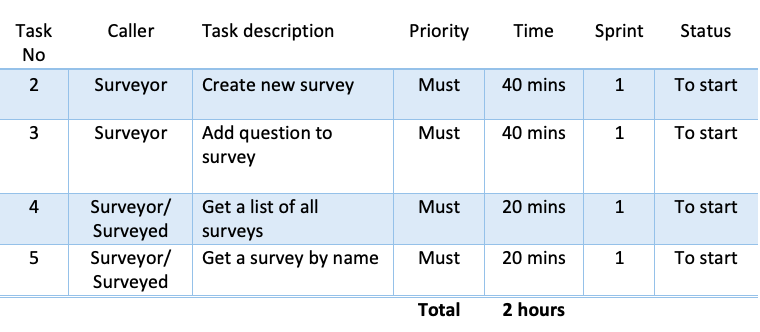
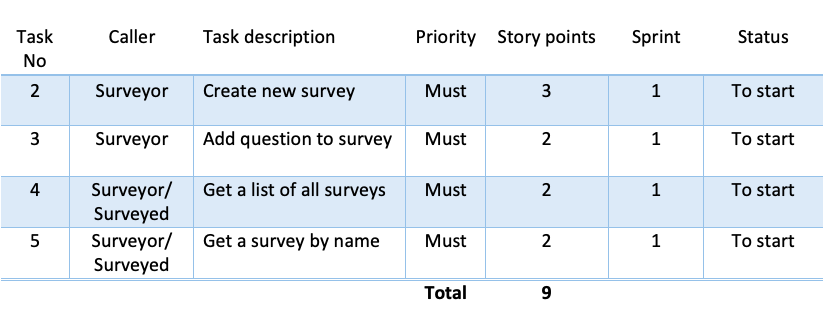
added story points to sprints

diff --git a/README.md b/README.md
@@ -15,14 +15,19 @@ The software component will consist of functionality to create a survey and rece
 
 Tasks will be done in 'sprints' or development stages, which will be timed and each task will receive an estimation of completion time. 
 
-Note: development time of this sample software will be much shorter than real life tools, however it will help to describe the process of the Scrum backlog, which will be customized to each product. 
+To estimate the amount of time it will take to do and the complexity of the task. To allocate story points, a Fibonacci sequence will be used i.e. 1, 2, 3, 5, 8, 13. 
 
+Note: development time of this sample software will be much shorter than real life tools, however it will help to describe the process of the Scrum backlog, which will be customized to each product. One story point for this sample project will be estimated at 10 minutes. 
 
 #### Sprint 1
 
 This sprint will focus on the surveyor functionality, as to begin the process of receiving answers to surveys will depend on the existence of these “must have” features. 
 
 ![Sprint 1](/resources/sprints/1.png)
+
+To begin the project, I will create survey objects that will be required such as Survey, Question and Response. Each object will have a set of attributes. This initial set up will take long, therefore 40 minutes is allocated to it. 
+
+To view the already existing projects, 20 minutes is sufficient enough. However, the overall spring time is the longest as it will contain the core functionality of the system. 
 
 #### Sprint 2
 
@@ -41,6 +46,8 @@ Spring three will focus on providing statistics of the survey and will calculate
 This sprint will be the extension of the statistics feature to gain deeper insight into individual response score of the survey questions, which will provide average, standard deviation, minimum and maximum score of each question’s responses. 
 
 ![Sprint 4](/resources/sprints/4.png)
+
+#### 
 
 #### Future Plans
 
